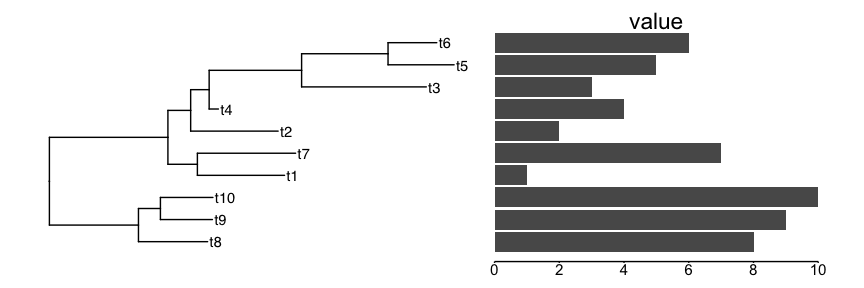
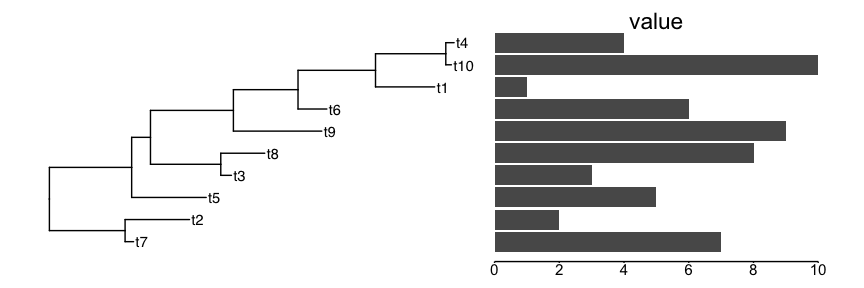
added method to shift ggtree geom_tippoint position with unrooted tree layouts

diff --git a/Rscripts/phylogenetics/ggtree_demo.md b/Rscripts/phylogenetics/ggtree_demo.md
@@ -88,19 +88,19 @@ nwk_tree_tip_dat
     ## # A tibble: 13 × 4
     ##    taxon fake_height fake_phenotype fake_phenotype2
     ##    <chr>       <dbl> <chr>          <chr>          
-    ##  1 A           112.  teeth          scales         
-    ##  2 B           118.  tail           scales         
-    ##  3 C            83.9 teeth          spikes         
-    ##  4 D            98.5 nose           scales         
-    ##  5 E           131.  tail           fur            
-    ##  6 F           124.  nose           scales         
-    ##  7 G           119.  tail           scales         
-    ##  8 H           135.  nose           scales         
-    ##  9 I           136.  nose           scales         
-    ## 10 J           152.  nose           spikes         
-    ## 11 K            94.4 teeth          scales         
-    ## 12 L           123.  nose           scales         
-    ## 13 M            55.8 teeth          fur
+    ##  1 A            60.8 teeth          spikes         
+    ##  2 B            95.8 teeth          scales         
+    ##  3 C            60.6 teeth          fur            
+    ##  4 D            70.9 tail           fur            
+    ##  5 E            35.9 teeth          scales         
+    ##  6 F           111.  tail           spikes         
+    ##  7 G            90.7 nose           spikes         
+    ##  8 H           128.  nose           fur            
+    ##  9 I            49.4 tail           spikes         
+    ## 10 J           102.  tail           scales         
+    ## 11 K            93.4 tail           fur            
+    ## 12 L           101.  teeth          scales         
+    ## 13 M           151.  teeth          scales
 
 ## Combine tree and tbl
 
@@ -162,16 +162,16 @@ nwk_tree_with_info
     ## # The 'node', 'label' and 'isTip' are from the phylo tree.
     ##     node label isTip fake_height fake_phenotype fake_phenotype2
     ##    <int> <chr> <lgl>       <dbl> <chr>          <chr>          
-    ##  1     1 A     TRUE        112.  teeth          scales         
-    ##  2     2 B     TRUE        118.  tail           scales         
-    ##  3     3 C     TRUE         83.9 teeth          spikes         
-    ##  4     4 D     TRUE         98.5 nose           scales         
-    ##  5     5 E     TRUE        131.  tail           fur            
-    ##  6     6 F     TRUE        124.  nose           scales         
-    ##  7     7 G     TRUE        119.  tail           scales         
-    ##  8     8 H     TRUE        135.  nose           scales         
-    ##  9     9 I     TRUE        136.  nose           scales         
-    ## 10    10 J     TRUE        152.  nose           spikes         
+    ##  1     1 A     TRUE         60.8 teeth          spikes         
+    ##  2     2 B     TRUE         95.8 teeth          scales         
+    ##  3     3 C     TRUE         60.6 teeth          fur            
+    ##  4     4 D     TRUE         70.9 tail           fur            
+    ##  5     5 E     TRUE         35.9 teeth          scales         
+    ##  6     6 F     TRUE        111.  tail           spikes         
+    ##  7     7 G     TRUE         90.7 nose           spikes         
+    ##  8     8 H     TRUE        128.  nose           fur            
+    ##  9     9 I     TRUE         49.4 tail           spikes         
+    ## 10    10 J     TRUE        102.  tail           scales         
     ## # ℹ 15 more rows
 
 Demo using `addInfoToTree` (by default it looks for the tip labels in
@@ -213,16 +213,16 @@ nwk_tree_with_info_2
     ## # The 'node', 'label' and 'isTip' are from the phylo tree.
     ##     node label isTip fake_height fake_phenotype fake_phenotype2
     ##    <int> <chr> <lgl>       <dbl> <chr>          <chr>          
-    ##  1     1 A     TRUE        112.  teeth          scales         
-    ##  2     2 B     TRUE        118.  tail           scales         
-    ##  3     3 C     TRUE         83.9 teeth          spikes         
-    ##  4     4 D     TRUE         98.5 nose           scales         
-    ##  5     5 E     TRUE        131.  tail           fur            
-    ##  6     6 F     TRUE        124.  nose           scales         
-    ##  7     7 G     TRUE        119.  tail           scales         
-    ##  8     8 H     TRUE        135.  nose           scales         
-    ##  9     9 I     TRUE        136.  nose           scales         
-    ## 10    10 J     TRUE        152.  nose           spikes         
+    ##  1     1 A     TRUE         60.8 teeth          spikes         
+    ##  2     2 B     TRUE         95.8 teeth          scales         
+    ##  3     3 C     TRUE         60.6 teeth          fur            
+    ##  4     4 D     TRUE         70.9 tail           fur            
+    ##  5     5 E     TRUE         35.9 teeth          scales         
+    ##  6     6 F     TRUE        111.  tail           spikes         
+    ##  7     7 G     TRUE         90.7 nose           spikes         
+    ##  8     8 H     TRUE        128.  nose           fur            
+    ##  9     9 I     TRUE         49.4 tail           spikes         
+    ## 10    10 J     TRUE        102.  tail           scales         
     ## # ℹ 15 more rows
 
 ## Manipulating info tibble in treedata objects
@@ -264,16 +264,16 @@ as_tibble(nwk_tree_with_info_2)
     ## # via as.treedata or as.phylo
     ##    parent  node branch.length label fake_height fake_phenotype fake_phenotype2
     ##     <int> <int>         <dbl> <chr>       <dbl> <chr>          <chr>          
-    ##  1     20     1             4 A           112.  teeth          scales         
-    ##  2     20     2             4 B           118.  tail           scales         
-    ##  3     19     3             5 C            83.9 teeth          spikes         
-    ##  4     18     4             6 D            98.5 nose           scales         
-    ##  5     17     5            21 E           131.  tail           fur            
-    ##  6     22     6             4 F           124.  nose           scales         
-    ##  7     22     7            12 G           119.  tail           scales         
-    ##  8     21     8             8 H           135.  nose           scales         
-    ##  9     24     9             5 I           136.  nose           scales         
-    ## 10     24    10             2 J           152.  nose           spikes         
+    ##  1     20     1             4 A            60.8 teeth          spikes         
+    ##  2     20     2             4 B            95.8 teeth          scales         
+    ##  3     19     3             5 C            60.6 teeth          fur            
+    ##  4     18     4             6 D            70.9 tail           fur            
+    ##  5     17     5            21 E            35.9 teeth          scales         
+    ##  6     22     6             4 F           111.  tail           spikes         
+    ##  7     22     7            12 G            90.7 nose           spikes         
+    ##  8     21     8             8 H           128.  nose           fur            
+    ##  9     24     9             5 I            49.4 tail           spikes         
+    ## 10     24    10             2 J           102.  tail           scales         
     ## # ℹ 15 more rows
 
 We can also directly access extraInfo, but that doesn’t contain a column
@@ -287,16 +287,16 @@ nwk_tree_with_info_2@extraInfo
     ## # A tibble: 25 × 4
     ##     node fake_height fake_phenotype fake_phenotype2
     ##    <int>       <dbl> <chr>          <chr>          
-    ##  1     1       112.  teeth          scales         
-    ##  2     2       118.  tail           scales         
-    ##  3     3        83.9 teeth          spikes         
-    ##  4     4        98.5 nose           scales         
-    ##  5     5       131.  tail           fur            
-    ##  6     6       124.  nose           scales         
-    ##  7     7       119.  tail           scales         
-    ##  8     8       135.  nose           scales         
-    ##  9     9       136.  nose           scales         
-    ## 10    10       152.  nose           spikes         
+    ##  1     1        60.8 teeth          spikes         
+    ##  2     2        95.8 teeth          scales         
+    ##  3     3        60.6 teeth          fur            
+    ##  4     4        70.9 tail           fur            
+    ##  5     5        35.9 teeth          scales         
+    ##  6     6       111.  tail           spikes         
+    ##  7     7        90.7 nose           spikes         
+    ##  8     8       128.  nose           fur            
+    ##  9     9        49.4 tail           spikes         
+    ## 10    10       102.  tail           scales         
     ## # ℹ 15 more rows
 
 ## Plot tree with annotations
@@ -792,7 +792,7 @@ nwk_tree %>%
 
 ![](ggtree_demo_files/figure-gfm/unnamed-chunk-33-1.png)<!-- -->
 
-But For equal_angle (and daylight) we have to use the `angle` parameter
+But for equal_angle (and daylight) we have to use the `angle` parameter
 created under the hood when ggtree runs (thank you to Brad Jones for the
 [solution](https://github.com/YuLab-SMU/ggtree/issues/687))
 
